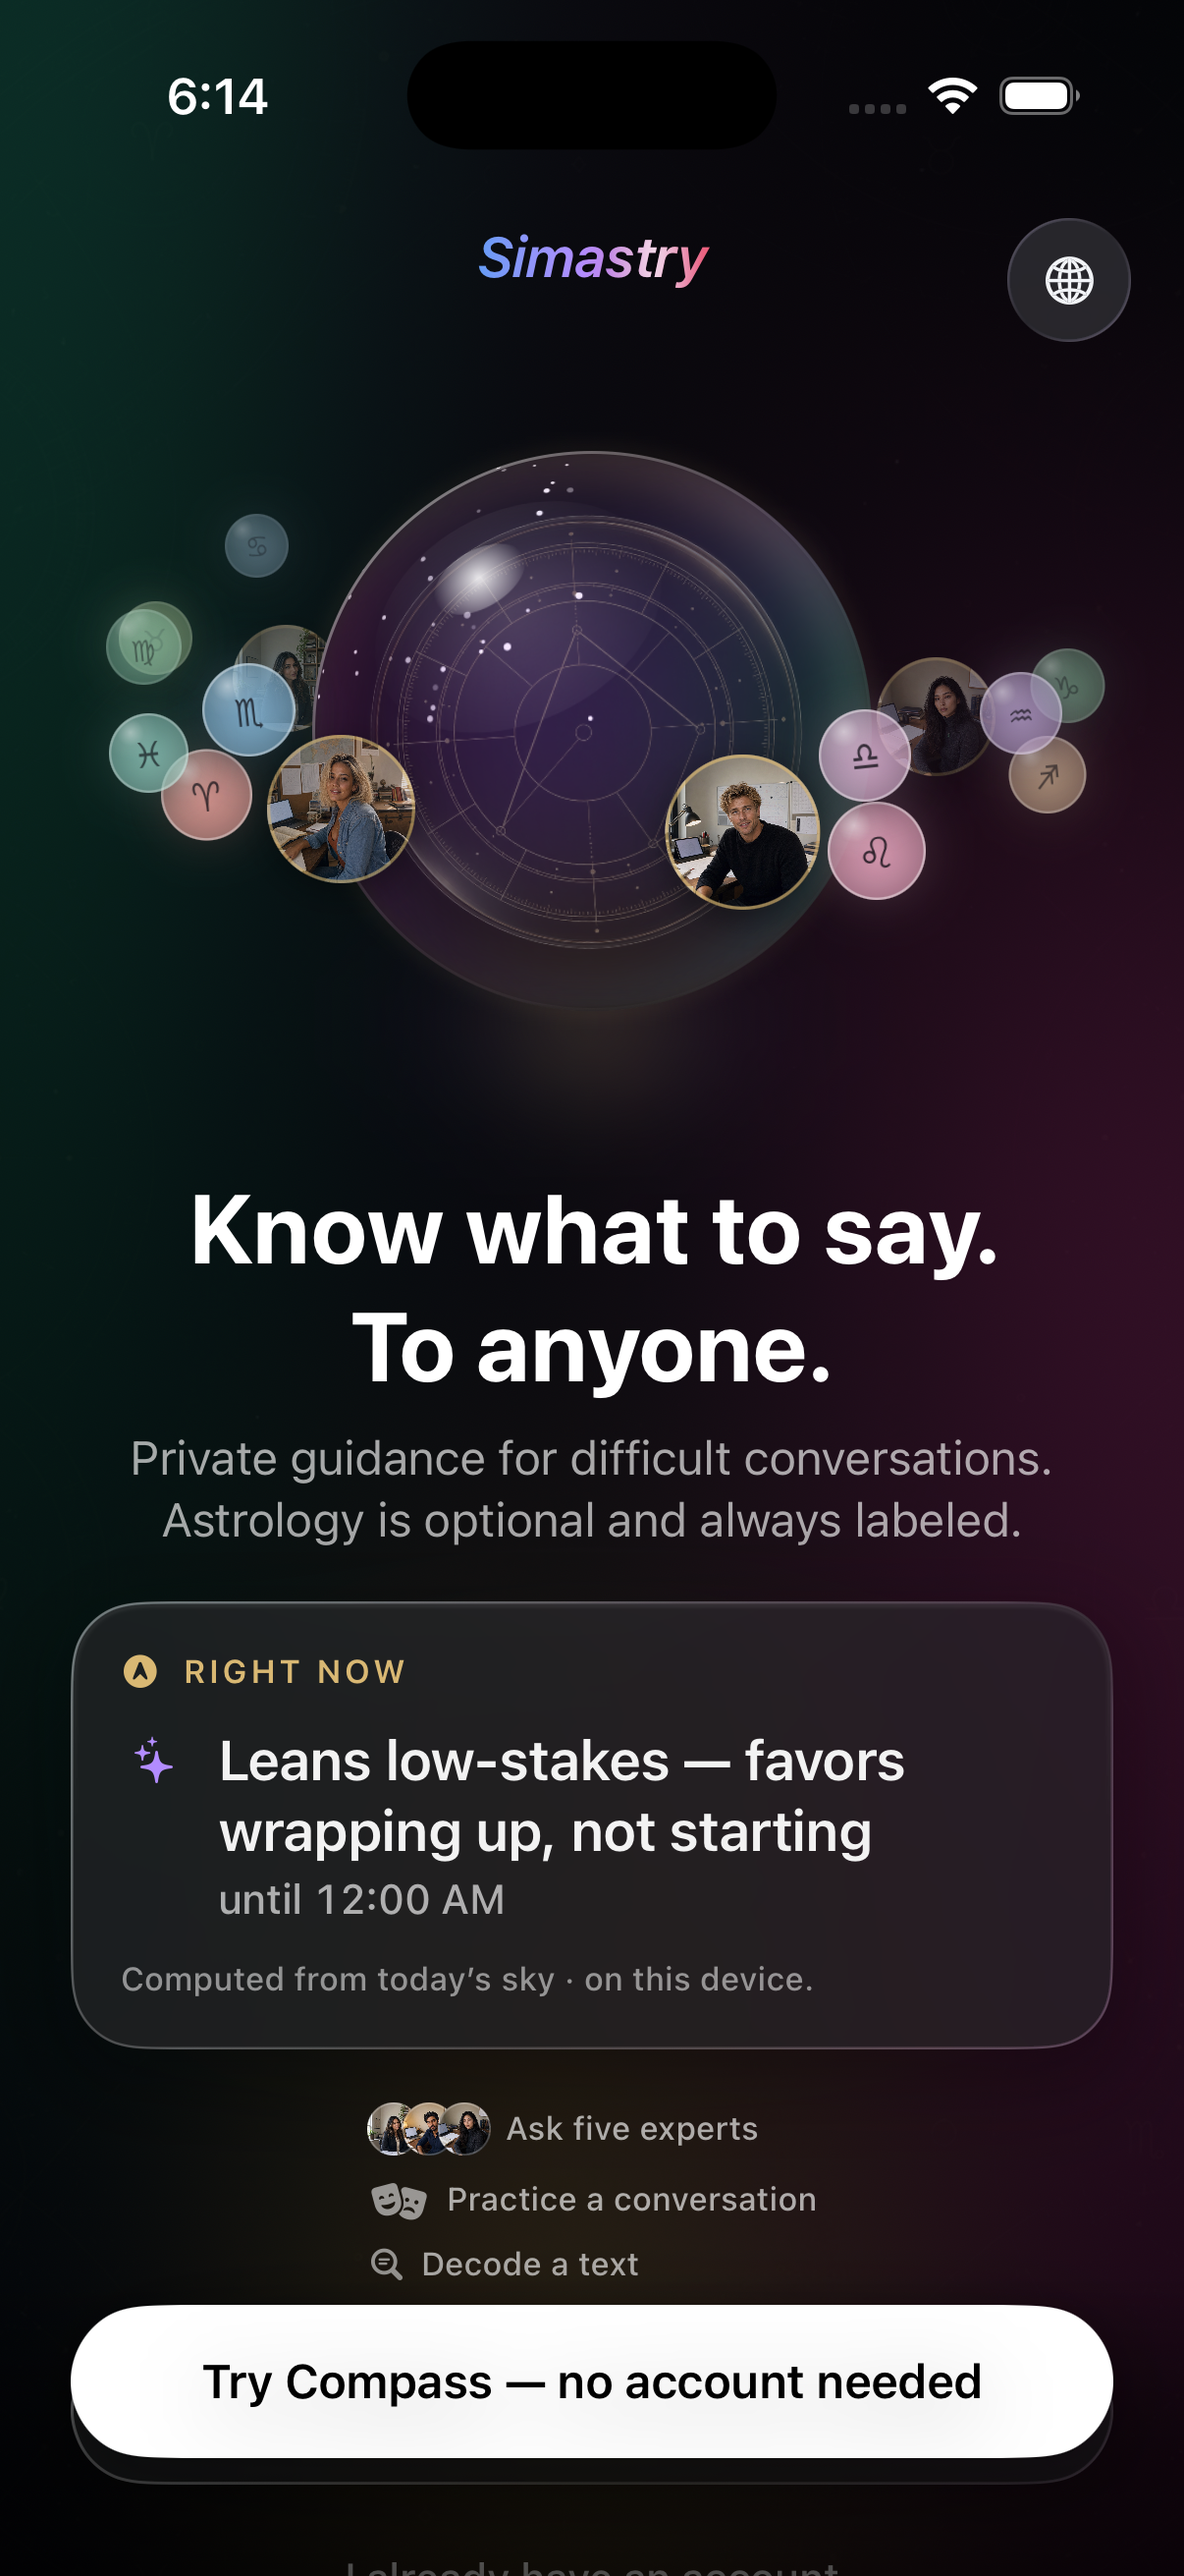
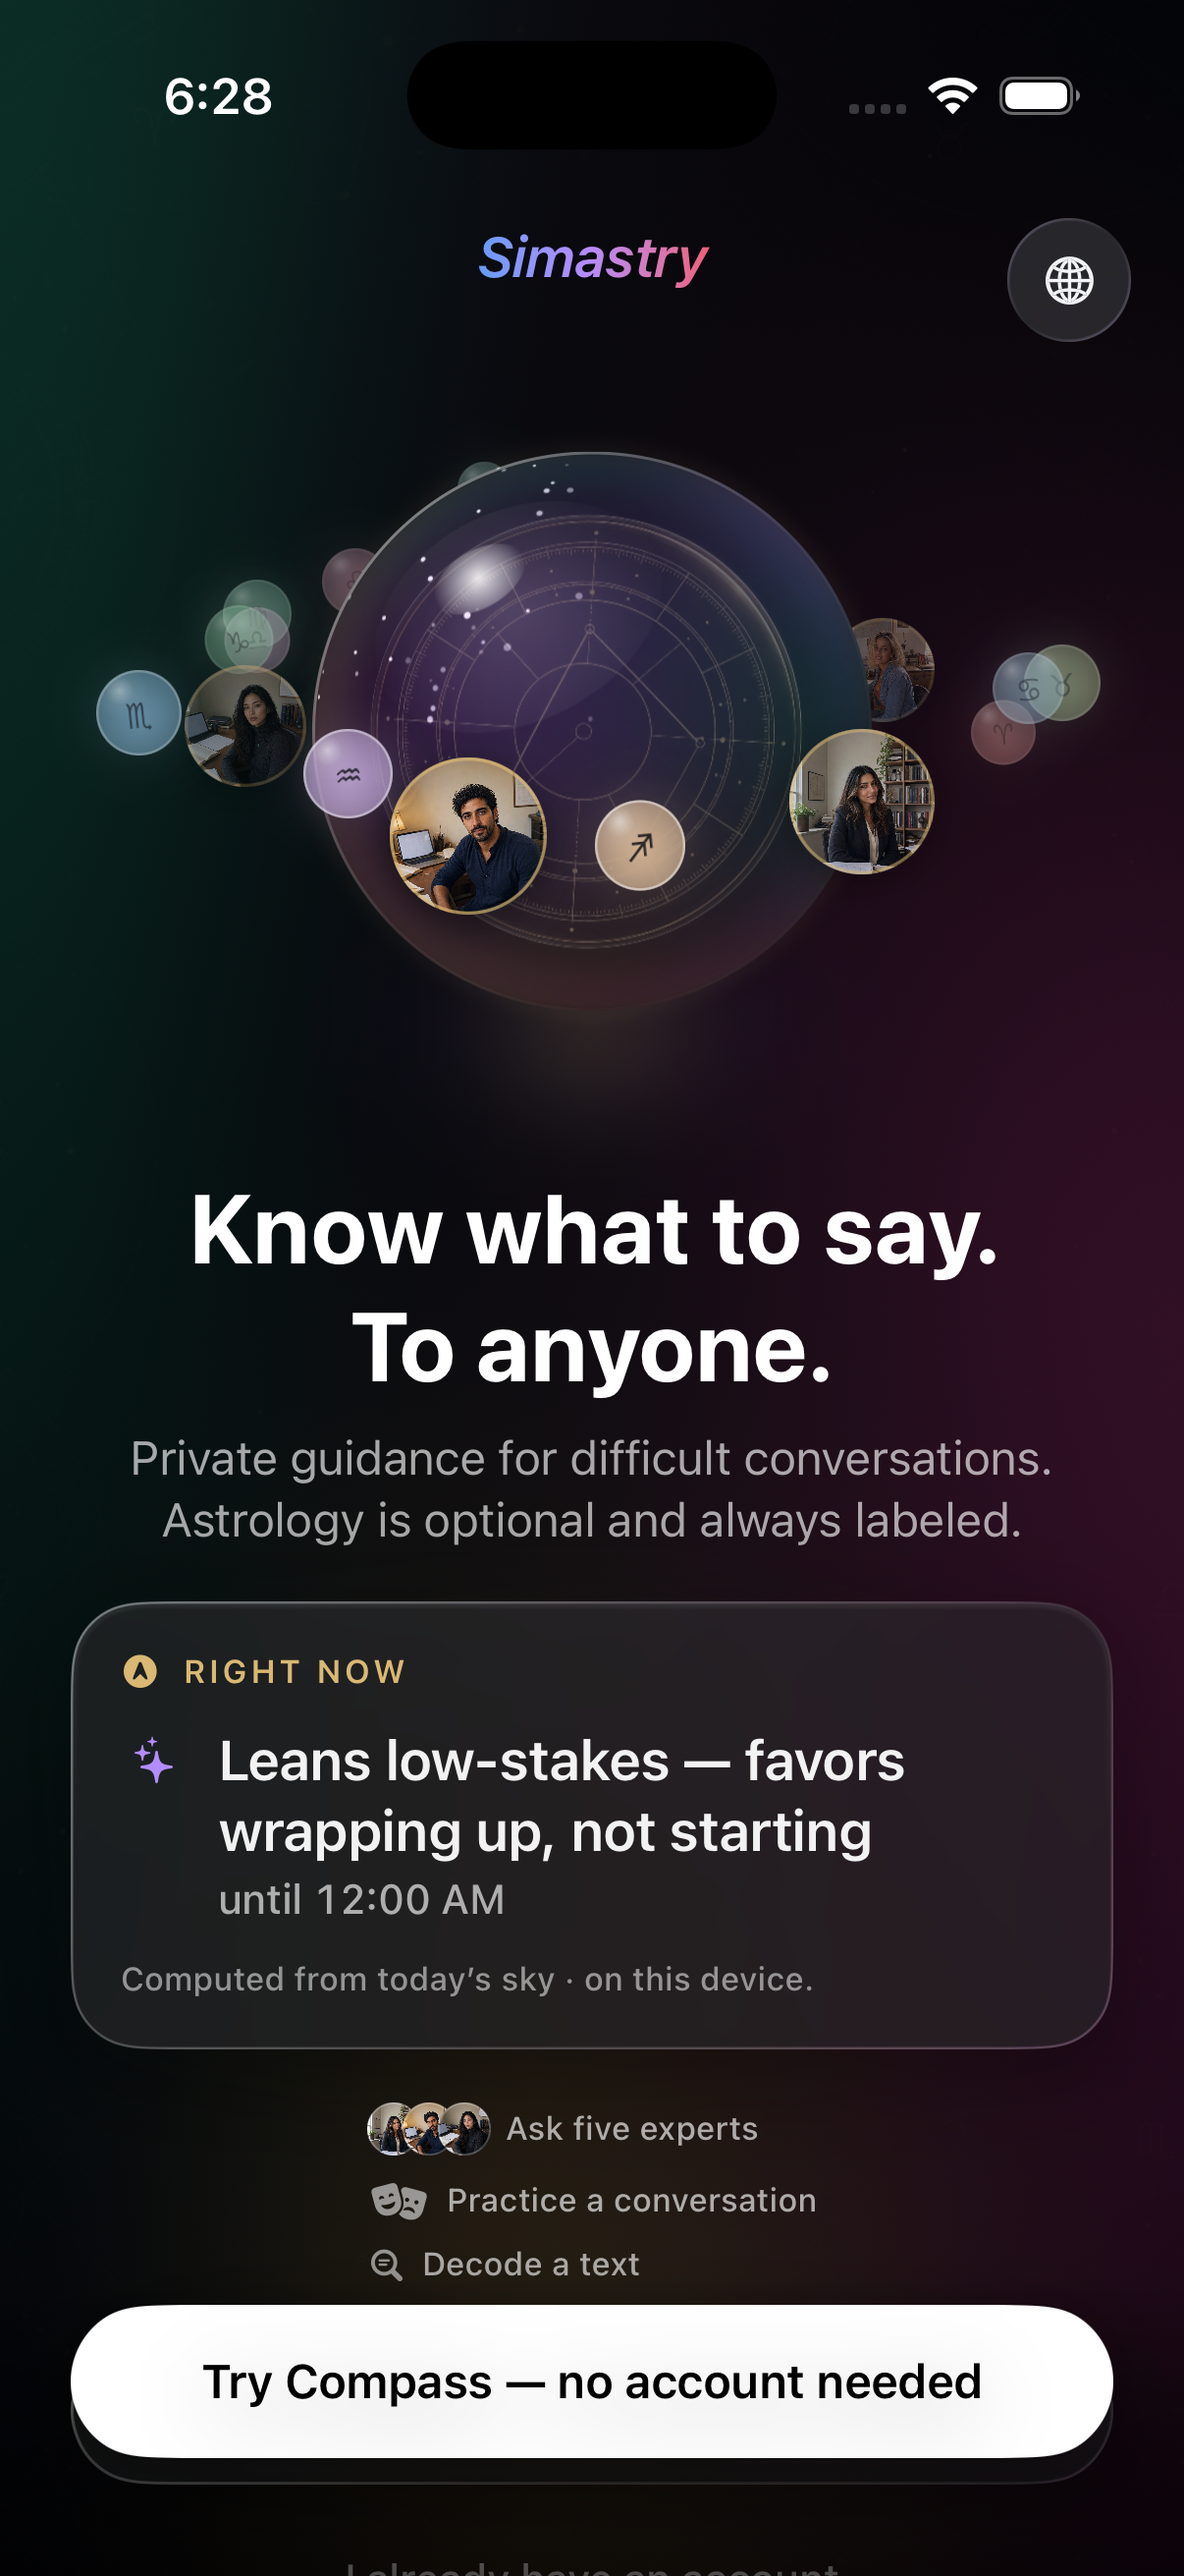
Choreograph the landing entrance
The whole-screen fade becomes a staggered reveal on the instrument
pattern: wordmark, crystal ball (settling from 97% scale — never from
zero), headline, now-line, feature line, then actions and the pinned
bar, each rising 8pt on the 0.32s ease-out with 50ms steps (~570ms to
settle; exits unchanged, so enter-slow/exit-fast holds). Reduce Motion
collapses it to a plain crossfade. Icons: the chart CTA drops the
generic hexgrid for the chart glyph from the icon registry, the sign-in
button gains the standard press feedback, and the now-line tick bounces
once — discretely, never repeating — when the real window lands.

Verified: mirror Debug build; 51/51 SimastryTests; the landing funnel
UITest green twice in a row (stagger vs accessibility-tree timing);
settled-frame baseline reviewed.

diff --git a/App/Views/CrystalLandingView.swift b/App/Views/CrystalLandingView.swift
@@ -27,12 +27,27 @@ struct CrystalLandingView: View {
             }
         }
         .preferredColorScheme(.dark)
-        .opacity(appeared ? 1 : 0)
         .onAppear {
-            withAnimation(.easeOut(duration: reduceMotion ? 0.01 : 0.20)) {
-                appeared = true
-            }
+            // Per-element `.animation(_, value:)` in `landingReveal` drives
+            // the staggered entrance — the flag flips plainly, once.
+            appeared = true
         }
+    }
+
+    /// One staggered entrance on first appearance — the instrument-reveal
+    /// pattern (opacity + 8pt rise, ease-out 0.32s, 50ms steps). The ball
+    /// additionally settles from 97% scale (never from zero). Reduce Motion
+    /// collapses everything to a plain crossfade. One-shot by construction:
+    /// `appeared` only ever flips false→true.
+    private func landingReveal(_ view: some View, step: Int, scales: Bool = false) -> some View {
+        view
+            .opacity(appeared ? 1 : 0)
+            .scaleEffect(scales && !reduceMotion ? (appeared ? 1 : 0.97) : 1)
+            .offset(y: reduceMotion ? 0 : (appeared ? 0 : 8))
+            .animation(
+                SimastryMotion.instrumentEnter.delay(reduceMotion ? 0 : Double(step) * 0.05),
+                value: appeared
+            )
     }
 
     private func activationPage(compact: Bool, height: CGFloat) -> some View {
@@ -44,92 +59,41 @@ struct CrystalLandingView: View {
 
         return ScrollView {
             VStack(spacing: compact ? 14 : 18) {
-                SimastryWordmark(font: .title3.bold().italic())
-                    .padding(.top, compact ? 8 : 14)
+                landingReveal(
+                    SimastryWordmark(font: .title3.bold().italic())
+                        .padding(.top, compact ? 8 : 14),
+                    step: 0
+                )
 
-                CrystalBallView(diameter: ballDiameter)
+                landingReveal(CrystalBallView(diameter: ballDiameter), step: 1, scales: true)
 
-                VStack(spacing: 8) {
-                    Text("Know what to say.\nTo anyone.")
-                        .font(.largeTitle.bold())
-                        .foregroundStyle(.white)
-                        .multilineTextAlignment(.center)
-                        .fixedSize(horizontal: false, vertical: true)
+                landingReveal(headlineBlock, step: 2)
 
-                    Text("Private guidance for difficult conversations. Astrology is optional and always labeled.")
-                        .font(.body)
-                        .foregroundStyle(.white.opacity(0.64))
-                        .multilineTextAlignment(.center)
-                        .fixedSize(horizontal: false, vertical: true)
-                }
+                landingReveal(
+                    TimelineView(.everyMinute) { context in
+                        nowLineCard(compact: compact, now: context.date)
+                            .task(id: DailyGuidance.dateKey(for: context.date)) {
+                                guard computedDayWindowsKey != DailyGuidance.dateKey(for: context.date) else { return }
+                                let inputs = DayWindowsEngine.Inputs(
+                                    date: context.date,
+                                    timeZone: .current,
+                                    natalSun: nil,
+                                    natalMoon: nil,
+                                    natalRising: nil,
+                                    style: .practical
+                                )
+                                dayWindows = await DayWindowsEngine.windows(for: inputs)
+                                computedDayWindowsKey = DailyGuidance.dateKey(for: context.date)
+                            }
+                    },
+                    step: 3
+                )
 
-                TimelineView(.everyMinute) { context in
-                    nowLineCard(compact: compact, now: context.date)
-                        .task(id: DailyGuidance.dateKey(for: context.date)) {
-                            guard computedDayWindowsKey != DailyGuidance.dateKey(for: context.date) else { return }
-                            let inputs = DayWindowsEngine.Inputs(
-                                date: context.date,
-                                timeZone: .current,
-                                natalSun: nil,
-                                natalMoon: nil,
-                                natalRising: nil,
-                                style: .practical
-                            )
-                            dayWindows = await DayWindowsEngine.windows(for: inputs)
-                            computedDayWindowsKey = DailyGuidance.dateKey(for: context.date)
-                        }
-                }
+                landingReveal(featureLine, step: 4)
 
-                featureLine
+                landingReveal(actionsBlock, step: 5)
 
-                VStack(spacing: 10) {
-                    // At accessibility sizes the pinned bar would fill half
-                    // the screen and collide with the story behind it — the
-                    // CTA rides in the flow instead (the same size-class
-                    // swap the Compass strip and bearings row use).
-                    if dynamicTypeSize.isAccessibilitySize {
-                        primaryCTA
-                    }
-
-                    Button {
-                        HapticManager.buttonPress()
-                        beginChartOnboarding()
-                    } label: {
-                        Label("Build my chart instead", systemImage: "circle.hexagongrid")
-                            .font(.headline)
-                            .foregroundStyle(.white.opacity(0.92))
-                            .frame(maxWidth: .infinity, minHeight: 50)
-                            .landingGlassCapsule(emphasis: .cta)
-                    }
-                    .buttonStyle(SpringPressStyle())
-                    .accessibilityIdentifier("landing.crystal.chartCTA")
-
-                    Button {
-                        HapticManager.buttonPress()
-                        withAnimation(SimastryMotion.stateChange) {
-                            viewModel.currentScreen = .signIn
-                        }
-                    } label: {
-                        Text(localization.string("landing.alreadyHaveAccount"))
-                            .font(.subheadline.weight(.medium))
-                            .foregroundStyle(.white.opacity(0.74))
-                            .frame(minHeight: 44)
-                    }
-                    .buttonStyle(.plain)
-                    .accessibilityIdentifier("landing.crystal.signIn")
-                }
-
-                HStack(spacing: 7) {
-                    Image(systemName: "lock.fill")
-                    Text("Your first reading stays on this iPhone")
-                    Text("•")
-                    Link("Privacy", destination: AppConfig.privacyPolicyURL)
-                }
-                .font(.caption2.weight(.medium))
-                .foregroundStyle(.white.opacity(0.52))
-                .fixedSize(horizontal: false, vertical: true)
-                .multilineTextAlignment(.center)
-                .padding(.bottom, 12)
+                landingReveal(privacyRow, step: 5)
             }
             .padding(.horizontal, 24)
             .frame(maxWidth: 620)
@@ -142,23 +106,96 @@ struct CrystalLandingView: View {
         // layout-feedback class).
         .safeAreaInset(edge: .bottom, spacing: 0) {
             if !dynamicTypeSize.isAccessibilitySize {
-                primaryCTA
-                    .padding(.horizontal, 24)
-                    .padding(.top, 10)
-                    .padding(.bottom, 6)
-                    .frame(maxWidth: 620)
-                    .frame(maxWidth: .infinity)
-                    .background {
-                        LinearGradient(
-                            colors: [.black.opacity(0), .black.opacity(0.42), .black.opacity(0.62)],
-                            startPoint: .top,
-                            endPoint: .bottom
-                        )
-                        .ignoresSafeArea(edges: .bottom)
-                        .allowsHitTesting(false)
-                    }
+                landingReveal(pinnedCTABar, step: 5)
             }
         }
+    }
+
+    private var headlineBlock: some View {
+        VStack(spacing: 8) {
+                    Text("Know what to say.\nTo anyone.")
+                        .font(.largeTitle.bold())
+                        .foregroundStyle(.white)
+                        .multilineTextAlignment(.center)
+                        .fixedSize(horizontal: false, vertical: true)
+
+                    Text("Private guidance for difficult conversations. Astrology is optional and always labeled.")
+                        .font(.body)
+                        .foregroundStyle(.white.opacity(0.64))
+                        .multilineTextAlignment(.center)
+                        .fixedSize(horizontal: false, vertical: true)
+                }
+    }
+
+    private var actionsBlock: some View {
+        VStack(spacing: 10) {
+            // At accessibility sizes the pinned bar would fill half the
+            // screen and collide with the story behind it — the CTA rides
+            // in the flow instead (the same size-class swap the Compass
+            // strip and bearings row use).
+            if dynamicTypeSize.isAccessibilitySize {
+                primaryCTA
+            }
+
+            Button {
+                HapticManager.buttonPress()
+                beginChartOnboarding()
+            } label: {
+                Label("Build my chart instead", systemImage: SimastryIcon.chart)
+                    .font(.headline)
+                    .foregroundStyle(.white.opacity(0.92))
+                    .frame(maxWidth: .infinity, minHeight: 50)
+                    .landingGlassCapsule(emphasis: .cta)
+            }
+            .buttonStyle(SpringPressStyle())
+            .accessibilityIdentifier("landing.crystal.chartCTA")
+
+            Button {
+                HapticManager.buttonPress()
+                withAnimation(SimastryMotion.stateChange) {
+                    viewModel.currentScreen = .signIn
+                }
+            } label: {
+                Text(localization.string("landing.alreadyHaveAccount"))
+                    .font(.subheadline.weight(.medium))
+                    .foregroundStyle(.white.opacity(0.74))
+                    .frame(minHeight: 44)
+            }
+            .buttonStyle(SpringPressStyle())
+            .accessibilityIdentifier("landing.crystal.signIn")
+        }
+    }
+
+    private var privacyRow: some View {
+        HStack(spacing: 7) {
+            Image(systemName: "lock.fill")
+            Text("Your first reading stays on this iPhone")
+            Text("•")
+            Link("Privacy", destination: AppConfig.privacyPolicyURL)
+        }
+        .font(.caption2.weight(.medium))
+        .foregroundStyle(.white.opacity(0.52))
+        .fixedSize(horizontal: false, vertical: true)
+        .multilineTextAlignment(.center)
+        .padding(.bottom, 12)
+    }
+
+    private var pinnedCTABar: some View {
+        primaryCTA
+            .padding(.horizontal, 24)
+            .padding(.top, 10)
+            .padding(.bottom, 6)
+            .frame(maxWidth: 620)
+            .frame(maxWidth: .infinity)
+            .background {
+                LinearGradient(
+                    colors: [.black.opacity(0), .black.opacity(0.42), .black.opacity(0.62)],
+                    startPoint: .top,
+                    endPoint: .bottom
+                )
+                .ignoresSafeArea(edges: .bottom)
+                .allowsHitTesting(false)
+            }
     }
 
     private var primaryCTA: some View {
@@ -179,10 +216,7 @@ struct CrystalLandingView: View {
                 nowLineKicker
 
                 HStack(alignment: .top, spacing: 11) {
-                    Image(systemName: compassIcon(for: line.window))
-                        .font(.subheadline.weight(.semibold))
-                        .foregroundStyle(compassTint(for: line.window.tokenID))
-                        .frame(width: 22, height: 22)
+                    nowLineTick(for: line.window)
 
                     VStack(alignment: .leading, spacing: 3) {
                         Text(line.window.title)
@@ -232,6 +266,21 @@ struct CrystalLandingView: View {
             .landingGlass(cornerRadius: 24, emphasis: .card)
             .skeletonShimmer()
             .accessibilityLabel("Computing today's windows")
+        }
+    }
+
+    /// One discrete bounce when the real line lands — the window id changes
+    /// at most a handful of times a day, and the effect never repeats.
+    @ViewBuilder
+    private func nowLineTick(for window: DayWindow) -> some View {
+        let icon = Image(systemName: compassIcon(for: window))
+            .font(.subheadline.weight(.semibold))
+            .foregroundStyle(compassTint(for: window.tokenID))
+            .frame(width: 22, height: 22)
+        if reduceMotion {
+            icon
+        } else {
+            icon.symbolEffect(.bounce, options: .nonRepeating, value: window.id)
         }
     }
 
